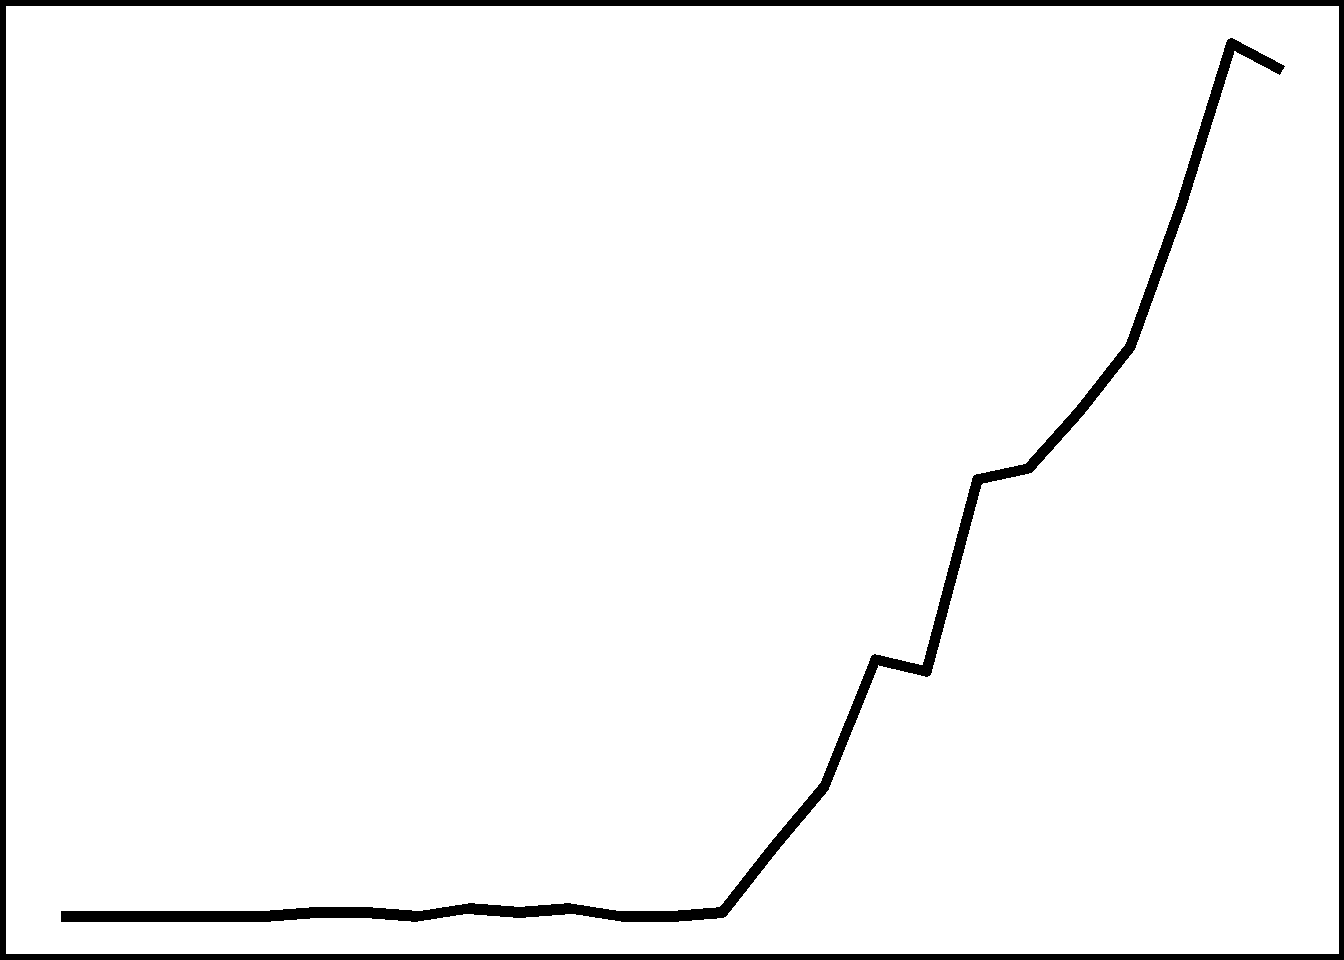
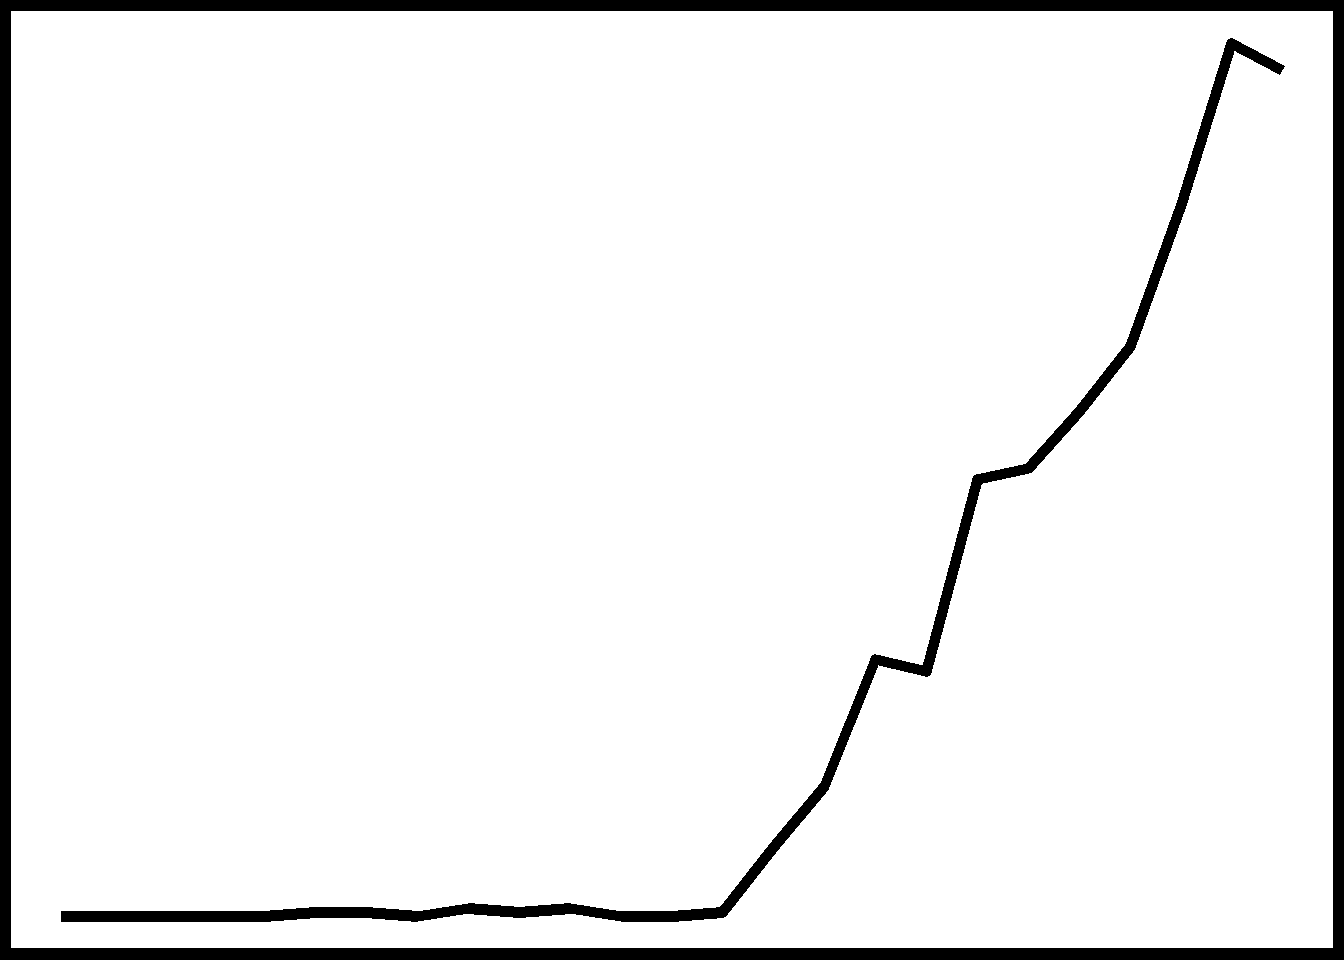
add larger boarder to meta image

Changed region(s): [[0.0, 0.0, 1.0, 1.0]]

diff --git a/public/main.min.820687a08fb1bdfbfb3fe0486d0289995ff5105bc35f1ec1088b87aaf35d170d.js b/public/main.min.820687a08fb1bdfbfb3fe0486d0289995ff5105bc35f1ec1088b87aaf35d170d.js
@@ -1,0 +1,5 @@
+/*!
+ * headroom.js v0.12.0 - Give your page some headroom. Hide your header until you need it
+ * Copyright (c) 2020 Nick Williams - http://wicky.nillia.ms/headroom.js
+ * License: MIT
+ */(()=>{var n=Object.create,e=Object.defineProperty,s=Object.getOwnPropertyDescriptor,t=Object.getOwnPropertyNames,o=Object.getPrototypeOf,i=Object.prototype.hasOwnProperty,a=(e,n)=>function(){return n||(0,e[t(e)[0]])((n={exports:{}}).exports,n),n.exports},r=(n,o,a,r)=>{if(o&&typeof o=="object"||typeof o=="function")for(let c of t(o))!i.call(n,c)&&c!==a&&e(n,c,{get:()=>o[c],enumerable:!(r=s(o,c))||r.enumerable});return n},c=(t,s,i)=>(i=t!=null?n(o(t)):{},r(s||!t||!t.__esModule?e(i,"default",{value:t,enumerable:!0}):i,t)),l=a({"ns-hugo:C:\\Users\\alexd\\OneDrive\\Documents\\GitHub\\cc_website\\assets\\js\\headroom.js"(e,t){!function(n,s){"object"==typeof e&&"undefined"!=typeof t?t.exports=s():"function"==typeof define&&define.amd?define(s):(n=n||self).Headroom=s()}(e,function(){"use strict";function t(){return"undefined"!=typeof window}function s(e){return function(e){return e&&e.document&&function(e){return 9===e.nodeType}(e.document)}(e)?function(e){var s=e.document,t=s.body,n=s.documentElement;return{scrollHeight:function(){return Math.max(t.scrollHeight,n.scrollHeight,t.offsetHeight,n.offsetHeight,t.clientHeight,n.clientHeight)},height:function(){return e.innerHeight||n.clientHeight||t.clientHeight},scrollY:function(){return void 0!==e.pageYOffset?e.pageYOffset:(n||t.parentNode||t).scrollTop}}}(e):function(e){return{scrollHeight:function(){return Math.max(e.scrollHeight,e.offsetHeight,e.clientHeight)},height:function(){return Math.max(e.offsetHeight,e.clientHeight)},scrollY:function(){return e.scrollTop}}}(e)}function o(e,t,n){var c,l,h=function(){var e,t=!1;try{e={get passive(){t=!0}},window.addEventListener("test",e,e),window.removeEventListener("test",e,e)}catch{t=!1}return t}(),r=!1,i=s(e),a=i.scrollY(),o={};function d(){var e=Math.round(i.scrollY()),s=i.height(),c=i.scrollHeight();o.scrollY=e,o.lastScrollY=a,o.direction=a<e?"down":"up",o.distance=Math.abs(e-a),o.isOutOfBounds=e<0||c<e+s,o.top=e<=t.offset[o.direction],o.bottom=c<=e+s,o.toleranceExceeded=o.distance>t.tolerance[o.direction],n(o),a=e,r=!1}function u(){r||(r=!0,l=requestAnimationFrame(d))}return c=!!h&&{passive:!0,capture:!1},e.addEventListener("scroll",u,c),d(),{destroy:function(){cancelAnimationFrame(l),e.removeEventListener("scroll",u,c)}}}function n(e){return e===Object(e)?e:{down:e,up:e}}function e(t,s){s=s||{},Object.assign(this,e.options,s),this.classes=Object.assign({},e.options.classes,s.classes),this.elem=t,this.tolerance=n(this.tolerance),this.offset=n(this.offset),this.initialised=!1,this.frozen=!1}return e.prototype={constructor:e,init:function(){return e.cutsTheMustard&&!this.initialised&&(this.addClass("initial"),this.initialised=!0,setTimeout(function(e){e.scrollTracker=o(e.scroller,{offset:e.offset,tolerance:e.tolerance},e.update.bind(e))},100,this)),this},destroy:function(){this.initialised=!1,Object.keys(this.classes).forEach(this.removeClass,this),this.scrollTracker.destroy()},unpin:function(){!this.hasClass("pinned")&&this.hasClass("unpinned")||(this.addClass("unpinned"),this.removeClass("pinned"),this.onUnpin&&this.onUnpin.call(this))},pin:function(){this.hasClass("unpinned")&&(this.addClass("pinned"),this.removeClass("unpinned"),this.onPin&&this.onPin.call(this))},freeze:function(){this.frozen=!0,this.addClass("frozen")},unfreeze:function(){this.frozen=!1,this.removeClass("frozen")},top:function(){this.hasClass("top")||(this.addClass("top"),this.removeClass("notTop"),this.onTop&&this.onTop.call(this))},notTop:function(){this.hasClass("notTop")||(this.addClass("notTop"),this.removeClass("top"),this.onNotTop&&this.onNotTop.call(this))},bottom:function(){this.hasClass("bottom")||(this.addClass("bottom"),this.removeClass("notBottom"),this.onBottom&&this.onBottom.call(this))},notBottom:function(){this.hasClass("notBottom")||(this.addClass("notBottom"),this.removeClass("bottom"),this.onNotBottom&&this.onNotBottom.call(this))},shouldUnpin:function(e){return"down"===e.direction&&!e.top&&e.toleranceExceeded},shouldPin:function(e){return"up"===e.direction&&e.toleranceExceeded||e.top},addClass:function(e){this.elem.classList.add.apply(this.elem.classList,this.classes[e].split(" "))},removeClass:function(e){this.elem.classList.remove.apply(this.elem.classList,this.classes[e].split(" "))},hasClass:function(e){return this.classes[e].split(" ").every(function(e){return this.classList.contains(e)},this.elem)},update:function(e){e.isOutOfBounds||!0!==this.frozen&&(e.top?this.top():this.notTop(),e.bottom?this.bottom():this.notBottom(),this.shouldUnpin(e)?this.unpin():this.shouldPin(e)&&this.pin())}},e.options={tolerance:{up:0,down:0},offset:0,scroller:t()?window:null,classes:{frozen:"headroom--frozen",pinned:"headroom--pinned",unpinned:"headroom--unpinned",top:"headroom--top",notTop:"headroom--not-top",bottom:"headroom--bottom",notBottom:"headroom--not-bottom",initial:"headroom"}},e.cutsTheMustard=!!(t()&&function(){}.bind&&"classList"in document.documentElement&&Object.assign&&Object.keys&&requestAnimationFrame),e})}}),d=c(l());document.addEventListener("DOMContentLoaded",function(){const e=document.querySelector("header"),t=new d.default(e,{offset:0,tolerance:{up:0,down:0},classes:{initial:"header--fixed",top:"top",notTop:"not-top"}});t.init()})})()

diff --git a/public/blog/caffeine/index.html b/public/blog/caffeine/index.html
@@ -63,7 +63,7 @@ Given I was continuing with a PhD I thought it will be easy enough to track my c
   <script src="/panelset.min.ed1ac24b6e16f4e2481e3d1d098ae66f5bc77438aef619e6e266d8ac5b00dc72.js" type="text/javascript"></script>
   
   
-  <script src="/main.min.ebcd1a95d7b1b52f97070caf90e6cd9051e7620f375a33fa2303b4cc869d8d32.js" type="text/javascript"></script>
+  <script src="/main.min.820687a08fb1bdfbfb3fe0486d0289995ff5105bc35f1ec1088b87aaf35d170d.js" type="text/javascript"></script>
 </head>
 <body>
       <div class="grid-container single">

diff --git a/public/contact/index.html b/public/contact/index.html
@@ -62,7 +62,7 @@ Just fill out the form and I&#39;ll get back to you within 48 hours." />
   <script src="/panelset.min.ed1ac24b6e16f4e2481e3d1d098ae66f5bc77438aef619e6e266d8ac5b00dc72.js" type="text/javascript"></script>
   
   
-  <script src="/main.min.ebcd1a95d7b1b52f97070caf90e6cd9051e7620f375a33fa2303b4cc869d8d32.js" type="text/javascript"></script>
+  <script src="/main.min.820687a08fb1bdfbfb3fe0486d0289995ff5105bc35f1ec1088b87aaf35d170d.js" type="text/javascript"></script>
 </head>
 <body>
       <div class="grid-container split-right">

diff --git a/public/contributors/index.html b/public/contributors/index.html
@@ -58,7 +58,7 @@
   <script src="/panelset.min.ed1ac24b6e16f4e2481e3d1d098ae66f5bc77438aef619e6e266d8ac5b00dc72.js" type="text/javascript"></script>
   
   
-  <script src="/main.min.ebcd1a95d7b1b52f97070caf90e6cd9051e7620f375a33fa2303b4cc869d8d32.js" type="text/javascript"></script>
+  <script src="/main.min.820687a08fb1bdfbfb3fe0486d0289995ff5105bc35f1ec1088b87aaf35d170d.js" type="text/javascript"></script>
 </head>
 <body>
       <div class="grid-container standard">

diff --git a/public/license/index.html b/public/license/index.html
@@ -58,7 +58,7 @@
   <script src="/panelset.min.ed1ac24b6e16f4e2481e3d1d098ae66f5bc77438aef619e6e266d8ac5b00dc72.js" type="text/javascript"></script>
   
   
-  <script src="/main.min.ebcd1a95d7b1b52f97070caf90e6cd9051e7620f375a33fa2303b4cc869d8d32.js" type="text/javascript"></script>
+  <script src="/main.min.820687a08fb1bdfbfb3fe0486d0289995ff5105bc35f1ec1088b87aaf35d170d.js" type="text/javascript"></script>
 </head>
 <body>
       <div class="grid-container standard">

diff --git a/public/blog/meta/index.html b/public/blog/meta/index.html
@@ -62,7 +62,7 @@
   <script src="/panelset.min.ed1ac24b6e16f4e2481e3d1d098ae66f5bc77438aef619e6e266d8ac5b00dc72.js" type="text/javascript"></script>
   
   
-  <script src="/main.min.ebcd1a95d7b1b52f97070caf90e6cd9051e7620f375a33fa2303b4cc869d8d32.js" type="text/javascript"></script>
+  <script src="/main.min.820687a08fb1bdfbfb3fe0486d0289995ff5105bc35f1ec1088b87aaf35d170d.js" type="text/javascript"></script>
 </head>
 <body>
       <div class="grid-container single">

diff --git a/public/blog/index.html b/public/blog/index.html
@@ -62,7 +62,7 @@
   <script src="/panelset.min.ed1ac24b6e16f4e2481e3d1d098ae66f5bc77438aef619e6e266d8ac5b00dc72.js" type="text/javascript"></script>
   
   
-  <script src="/main.min.ebcd1a95d7b1b52f97070caf90e6cd9051e7620f375a33fa2303b4cc869d8d32.js" type="text/javascript"></script>
+  <script src="/main.min.820687a08fb1bdfbfb3fe0486d0289995ff5105bc35f1ec1088b87aaf35d170d.js" type="text/javascript"></script>
 </head>
 <body>
       <div class="grid-container list">

diff --git a/public/index.html b/public/index.html
@@ -59,7 +59,7 @@
   <script src="/panelset.min.ed1ac24b6e16f4e2481e3d1d098ae66f5bc77438aef619e6e266d8ac5b00dc72.js" type="text/javascript"></script>
   
   
-  <script src="/main.min.ebcd1a95d7b1b52f97070caf90e6cd9051e7620f375a33fa2303b4cc869d8d32.js" type="text/javascript"></script>
+  <script src="/main.min.820687a08fb1bdfbfb3fe0486d0289995ff5105bc35f1ec1088b87aaf35d170d.js" type="text/javascript"></script>
 </head>
 <body>
       <div class="grid-container home">

diff --git a/public/404.html b/public/404.html
@@ -57,7 +57,7 @@
   <script src="/panelset.min.ed1ac24b6e16f4e2481e3d1d098ae66f5bc77438aef619e6e266d8ac5b00dc72.js" type="text/javascript"></script>
   
   
-  <script src="/main.min.ebcd1a95d7b1b52f97070caf90e6cd9051e7620f375a33fa2303b4cc869d8d32.js" type="text/javascript"></script>
+  <script src="/main.min.820687a08fb1bdfbfb3fe0486d0289995ff5105bc35f1ec1088b87aaf35d170d.js" type="text/javascript"></script>
 </head>
 <body>
       <div class="grid-container">

diff --git a/public/about/index.html b/public/about/index.html
@@ -62,7 +62,7 @@
   <script src="/panelset.min.ed1ac24b6e16f4e2481e3d1d098ae66f5bc77438aef619e6e266d8ac5b00dc72.js" type="text/javascript"></script>
   
   
-  <script src="/main.min.ebcd1a95d7b1b52f97070caf90e6cd9051e7620f375a33fa2303b4cc869d8d32.js" type="text/javascript"></script>
+  <script src="/main.min.820687a08fb1bdfbfb3fe0486d0289995ff5105bc35f1ec1088b87aaf35d170d.js" type="text/javascript"></script>
 </head>
 <body>
       <div class="grid-container">

diff --git a/public/categories/index.html b/public/categories/index.html
@@ -59,7 +59,7 @@
   <script src="/panelset.min.ed1ac24b6e16f4e2481e3d1d098ae66f5bc77438aef619e6e266d8ac5b00dc72.js" type="text/javascript"></script>
   
   
-  <script src="/main.min.ebcd1a95d7b1b52f97070caf90e6cd9051e7620f375a33fa2303b4cc869d8d32.js" type="text/javascript"></script>
+  <script src="/main.min.820687a08fb1bdfbfb3fe0486d0289995ff5105bc35f1ec1088b87aaf35d170d.js" type="text/javascript"></script>
 </head>
 <body>
       <div class="grid-container">

diff --git a/public/form/index.html b/public/form/index.html
@@ -61,7 +61,7 @@
   <script src="/panelset.min.ed1ac24b6e16f4e2481e3d1d098ae66f5bc77438aef619e6e266d8ac5b00dc72.js" type="text/javascript"></script>
   
   
-  <script src="/main.min.ebcd1a95d7b1b52f97070caf90e6cd9051e7620f375a33fa2303b4cc869d8d32.js" type="text/javascript"></script>
+  <script src="/main.min.820687a08fb1bdfbfb3fe0486d0289995ff5105bc35f1ec1088b87aaf35d170d.js" type="text/javascript"></script>
 </head>
 <body>
       <div class="grid-container">
